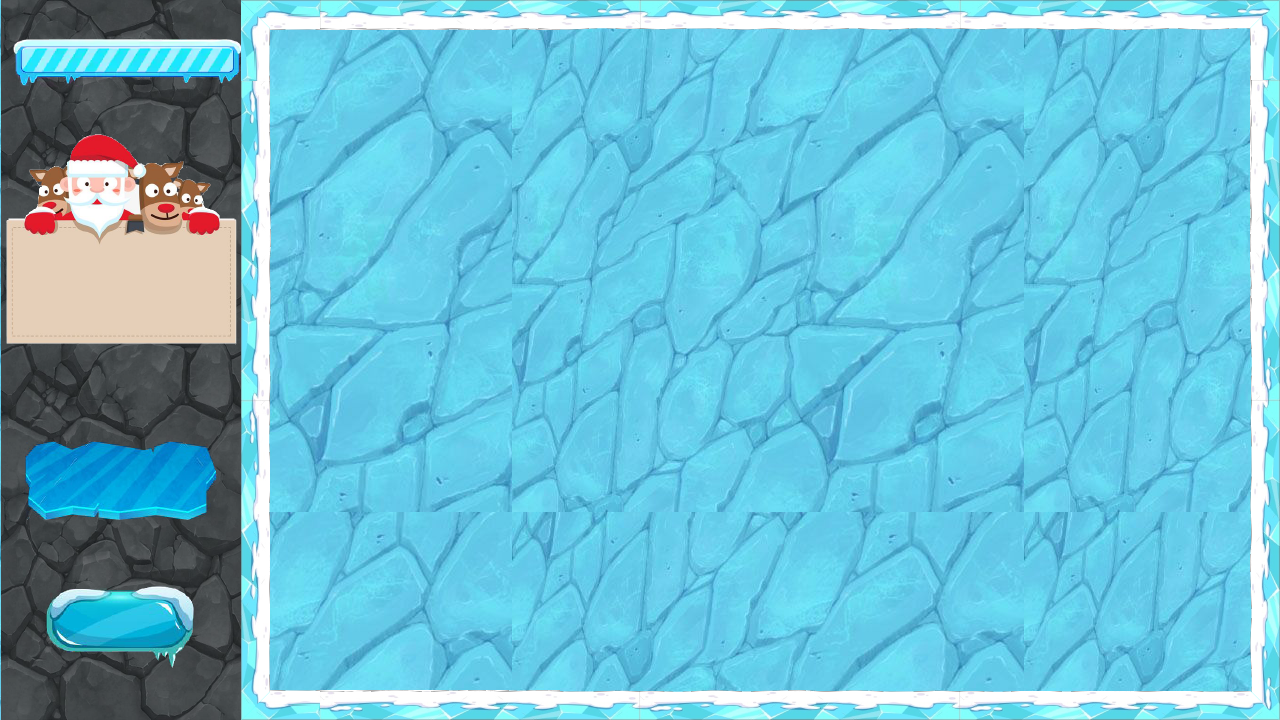
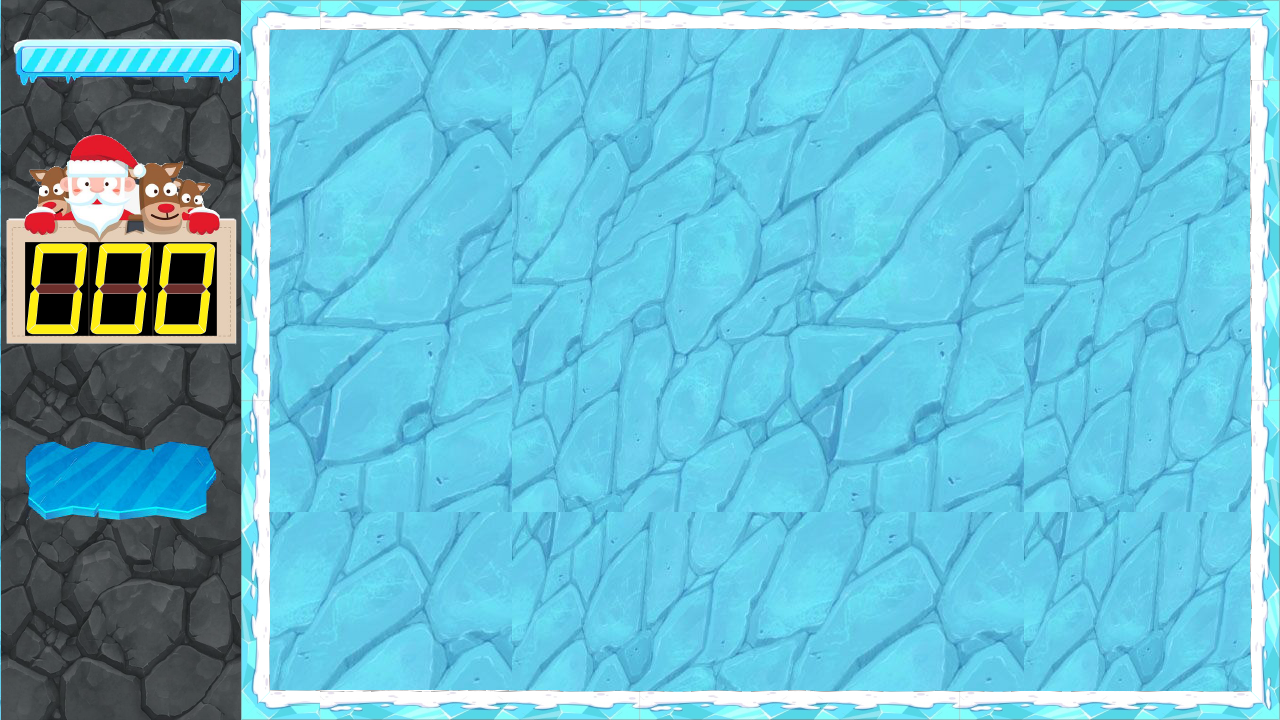
Add class Highscores

Changed region(s): [[0.0, 0.3361, 0.1875, 0.4889], [0.0312, 0.7944, 0.1562, 0.9167]]

diff --git a/Highscores.cpp b/Highscores.cpp
@@ -1,0 +1,113 @@
+#include "Highscores.h"
+
+Highscores::Highscores(SDL_Renderer*& renderer) {
+	_render = renderer;
+
+	_position.push_back({ POS_RANK_X, POS_RANK_Y, DEFAULT_WIGHT, POS_Y });
+	_position.push_back({ POS_RANK_X, POS_Y, DEFAULT_WIGHT, DEFAULT_HEIGHT });
+	_position.push_back({ POS_RANK_X, POS_Y + DEFAULT_HEIGHT, DEFAULT_WIGHT, DEFAULT_HEIGHT });
+	_position.push_back({ POS_RANK_X, POS_Y + DEFAULT_HEIGHT * 2, DEFAULT_WIGHT, DEFAULT_HEIGHT });
+	_position.push_back({ POS_RANK_X, POS_Y + DEFAULT_HEIGHT * 3, DEFAULT_WIGHT, DEFAULT_HEIGHT });
+	_position.push_back({ POS_RANK_X, POS_Y + DEFAULT_HEIGHT * 4, DEFAULT_WIGHT, DEFAULT_HEIGHT });
+	_position.push_back({ POS_RANK_X, POS_Y + DEFAULT_HEIGHT * 5, DEFAULT_WIGHT, DEFAULT_HEIGHT });
+	_position.push_back({ POS_RANK_X, POS_Y + DEFAULT_HEIGHT * 6, DEFAULT_WIGHT, DEFAULT_HEIGHT });
+	_position.push_back({ POS_RANK_X, POS_Y + DEFAULT_HEIGHT * 7, DEFAULT_WIGHT, DEFAULT_HEIGHT });
+	_position.push_back({ POS_RANK_X, POS_Y + DEFAULT_HEIGHT * 8, DEFAULT_WIGHT, DEFAULT_HEIGHT });
+	_position.push_back({ POS_RANK_X, POS_Y + DEFAULT_HEIGHT * 9, DEFAULT_WIGHT, DEFAULT_HEIGHT });
+
+	_ranks.push_back(Object::Object(_render, _position[0], "image//Rank//rank_empty.png"));//Menu rank
+	_ranks.push_back(Object::Object(_render, _position[0], "image//Rank//rank.png"));
+	_ranks.push_back(Object::Object(_render, _position[1], "image//Rank//rank_1_no.png"));//Rank 1
+	_ranks.push_back(Object::Object(_render, _position[1], "image//Rank//rank_1_yes.png"));
+	_ranks.push_back(Object::Object(_render, _position[2], "image//Rank//rank_2_no.png"));//Rank 2
+	_ranks.push_back(Object::Object(_render, _position[2], "image//Rank//rank_2_yes.png"));
+	_ranks.push_back(Object::Object(_render, _position[3], "image//Rank//rank_3_no.png"));//Rank 3
+	_ranks.push_back(Object::Object(_render, _position[3], "image//Rank//rank_3_yes.png"));
+	_ranks.push_back(Object::Object(_render, _position[4], "image//Rank//rank_4_no.png"));//Rank 4
+	_ranks.push_back(Object::Object(_render, _position[4], "image//Rank//rank_4_yes.png"));
+	_ranks.push_back(Object::Object(_render, {0,0,1280,720}, "image//background//bk.png"));
+
+}
+
+Info Highscores::ReadInfo(string info) {
+	stringstream line(info);
+	string temp;
+	Info player;
+
+	getline(line, temp, ',');
+	player.name = temp;
+	getline(line, temp, ',');
+	player.score = temp;
+
+	return player;
+}
+
+void Highscores::ReadFile(string name_file) {
+	ifstream file_in(name_file);
+	string line;
+	Info player;
+
+	if (file_in.fail()) {
+		cout << "Khong the mo file" << endl;
+		return;
+	}
+
+	//getline(file_in, line);//So player trong bang xep hang (top 10).
+
+	while (!file_in.eof()) {
+		getline(file_in, line);
+		if (line != "") {
+			_players.push_back(this->ReadInfo(line));
+		}
+	}
+}
+
+void Highscores::ShowHighscores() {
+	int count = _players.size();
+	//cout <<"\n"<< count << endl;
+
+	_ranks[10].ShowImg();
+
+	switch (count) {
+	case 0:
+		_ranks[0].ShowImg();
+		break;
+	case 1:
+		_ranks[1].ShowImg(); 
+		_ranks[2].ShowImg();
+		break;
+	case 2:
+		_ranks[1].ShowImg();
+		_ranks[3].ShowImg();
+		_ranks[4].ShowImg();
+		break;
+	case 3:
+		_ranks[1].ShowImg();
+		_ranks[3].ShowImg();
+		_ranks[5].ShowImg();
+		_ranks[6].ShowImg();
+		break;
+	case 4:
+		_ranks[1].ShowImg();
+		_ranks[3].ShowImg();
+		_ranks[5].ShowImg();
+		_ranks[7].ShowImg();
+		_ranks[8].ShowImg();
+		break;
+	default:
+		_ranks[1].ShowImg();
+		_ranks[3].ShowImg();
+		_ranks[5].ShowImg();
+		_ranks[7].ShowImg();
+		_ranks[9].ShowImg();
+
+		int i = 5;
+		while (i != count) {
+			_ranks[9].ShowImgWithRect(_position[i]);
+			i++;
+		}
+		_ranks[8].ShowImgWithRect(_position[count]);
+	}
+	SDL_RenderPresent(_render);
+	system("pause");
+}

diff --git a/MainMenu.cpp b/MainMenu.cpp
@@ -1,10 +1,11 @@
 #include "MainMenu.h"
-
+#include "Highscores.h"
 MainMenu::MainMenu()
 {
 	_initSuccess = InitSDL(_window, _render, DEFAULT_WIDTH, DEFAULT_HEIGHT);
 	_pingpong.SetPingPong(_window, _render);
 	_brickball.SetBrickBall(_window, _render, 1280, 720);
+	interface.LoadImg(_render, { 0,0,1280,720 }, "image//bkground//bk3.png");
 }
 MainMenu::~MainMenu()
 {
@@ -15,6 +16,7 @@ void MainMenu::PlayGame()
 	bool isHandle = true;
 	//bool isInMenu = true;
 	int Selection = -1;
+	Highscores rank(_render);
 	while (isHandle)
 	{
 		//Load Menu:
@@ -35,6 +37,9 @@ void MainMenu::PlayGame()
 		case 3:
 			//Hiển thị bản thành tích người chơi
 			cout << "3";
+			rank.ReadFile("players.txt");
+			interface.ShowImg();
+			rank.ShowHighscores();
 			isHandle = false;
 			break;
 		case 4:
@@ -64,7 +69,7 @@ int MainMenu::ShowMainMenu()
 	vector<Object> objects;
 	Object Selection;
 	SDL_Event even;
-	objects.push_back(Object::Object(_render, { 0,0,1280,720 }, "image//bkground//bkground.png"));
+	objects.push_back(Object::Object(_render, { 0,0,1280,720 }, "image//bkground//bk3.png"));
 	objects.push_back(Object::Object(_render, { 800,100,340,541 }, "image//material//main_menu.png"));
 	objects.push_back(Object::Object(_render, { 875,240,190,40 }, "image//button//button_newgame.png"));
 	objects.push_back(Object::Object(_render, { 875,300,190,40 }, "image//button//button_loadgame.png"));

diff --git a/Highscores.h b/Highscores.h
@@ -1,0 +1,37 @@
+#pragma once
+#include <SDL.h>
+#include <SDL_image.h>
+#include "BaseObject.h"
+#include <fstream>
+#include <sstream>
+#include <string>
+#include <vector>
+
+using namespace std;
+struct Info {
+	string name;
+	string score;
+};
+
+class Highscores
+{
+public:
+	static const int DEFAULT_WIGHT = 300;
+	static const int DEFAULT_HEIGHT = 60;
+	static const int POS_RANK_X = 484;
+	static const int POS_RANK_Y = 0;
+	static const int POS_Y = 95;
+private:
+	vector<Object> _ranks;
+	vector<Info> _players;
+	vector<SDL_Rect> _position;
+
+	SDL_Renderer* _render;
+public:
+	Highscores(SDL_Renderer*& renderer);
+public:
+	Info ReadInfo(string info);
+	void ReadFile(string name_file);
+	void ShowHighscores();
+};
+

diff --git a/BaseObject.h b/BaseObject.h
@@ -27,7 +27,7 @@ public:
 	void LoadImg(SDL_Renderer* renderer, SDL_Rect rect, string fileimg);
 	void ShowImg();
 
-	void ShowImgScore(SDL_Rect &rect);
+	void ShowImgWithRect(SDL_Rect &rect);
 
 	//Xử lý chuột 
 	bool CheckMouseWithButton(int xmouse, int ymouse);

diff --git a/MatchScore.cpp b/MatchScore.cpp
@@ -52,6 +52,6 @@ void MatchScore::CalcScore(int score) {
 void MatchScore::ShowScore() {
 	for (int i = 0; i < 3; i++) {
 		//cout << _scores[i] << endl;
-		_number[_scores[i]].ShowImgScore(_position[i]);
+		_number[_scores[i]].ShowImgWithRect(_position[i]);
 	}
 }

diff --git a/BaseObject.cpp b/BaseObject.cpp
@@ -33,7 +33,7 @@ void Object::ShowImg()
 	SDL_RenderCopy(_renderer, _texture, NULL, &_rect);
 }
 
-void Object::ShowImgScore(SDL_Rect &rect) {
+void Object::ShowImgWithRect(SDL_Rect &rect) {
 	SDL_RenderCopy(_renderer, _texture, NULL, &rect);
 }
 

diff --git a/GameBrickBall.cpp b/GameBrickBall.cpp
@@ -57,7 +57,7 @@ void BrickBall::PlayGame()
 	Uint8* keyboardState = const_cast <Uint8*> (SDL_GetKeyboardState(NULL));
 
 	MatchScore Score(_render);
-	int score = 500;
+	int score = 0;
 
 	Maze maze;
 	maze.SetMap(_render, 2);

diff --git a/MainMenu.h b/MainMenu.h
@@ -12,6 +12,7 @@ private:
 	BrickBall _brickball;
 	SDL_Window* _window;
 	SDL_Renderer* _render;
+	Object interface;
 public:
 	// const 
 	static const int DEFAULT_WIDTH = 1280;
